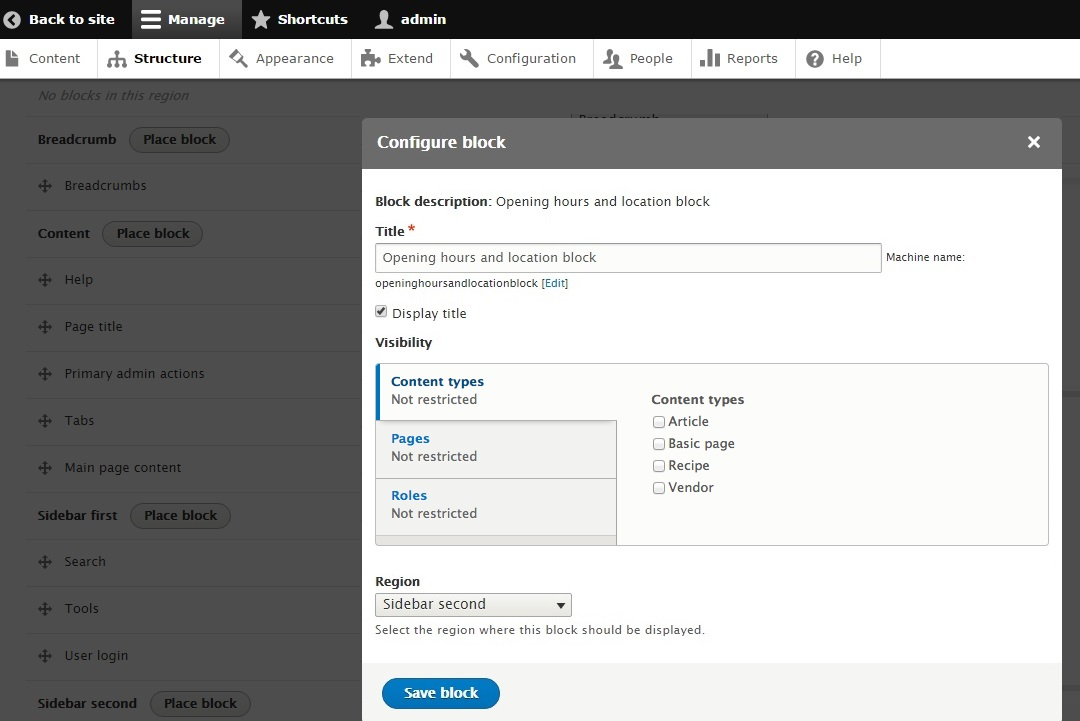
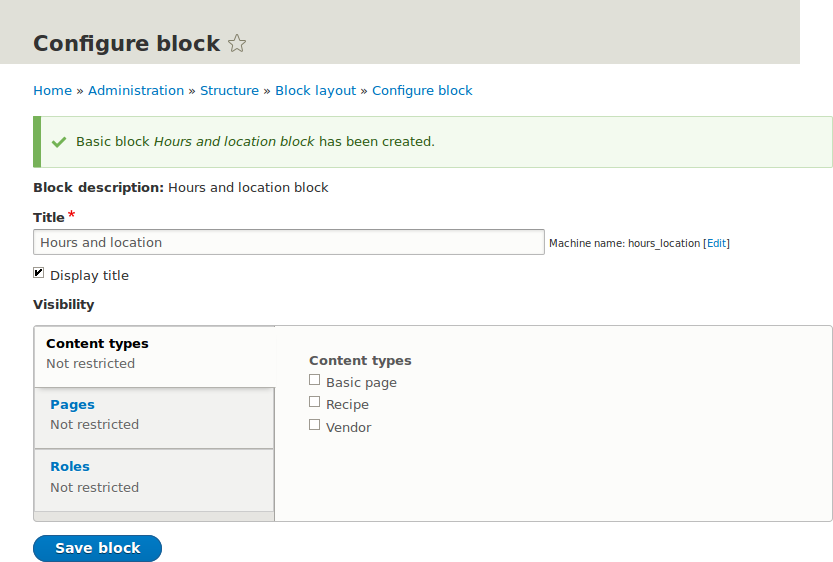
Issue #2539918 by jhodgdon: Automate more screenshots

diff --git a/auto_screenshots/src/Tests/UserGuideDemoTestBase.php b/auto_screenshots/src/Tests/UserGuideDemoTestBase.php
@@ -136,7 +136,8 @@ abstract class UserGuideDemoTestBase extends WebTestBase {
     // Hours and location block.
     'hours_block_description' => 'Hours and location block',
     'hours_block_title' => 'Hours and location',
-    'hours_block_body' => '<p>Open: Sundays, 9 AM to 2 PM, April to September</p>\n<p>Location: Parking lot of Trust Bank, 1st & Union, downtown</p>',
+    'hours_block_title_machine_name' => 'hours_location',
+    'hours_block_body' => "<p>Open: Sundays, 9 AM to 2 PM, April to September</p>\n<p>Location: Parking lot of Trust Bank, 1st & Union, downtown</p>",
 
   ];
 
@@ -167,6 +168,8 @@ abstract class UserGuideDemoTestBase extends WebTestBase {
    * as a "test" to run, in the specific-language classes.
    */
   public function testBuildDemoSite() {
+    global $base_path;
+
     $this->drupalLogin($this->rootUser);
 
     // Add the first language, set the default language to that, and delete
@@ -1014,7 +1017,25 @@ abstract class UserGuideDemoTestBase extends WebTestBase {
         'info[0][value]' => $this->demoInput['hours_block_description'],
         'body[0][value]' => $this->demoInput['hours_block_body'],
       ], $this->callT('Save'));
+    // In the test environment, saving a custom block takes you to the
+    // configure page, which we need to be on for the next topic. Otherwise,
+    // getting to that page involves some kind of obscured URL and is very
+    // difficult to manage.
 
+    // Topic: block-place - Placing a Block in a Region.
+
+    // Configuration page for placing a custom block in the sidebar.
+    $this->setUpScreenShot('block-place-configure-block.png', 'onLoad="jQuery(\'#edit-settings-label\').val(\'' . $this->demoInput['hours_block_title'] . '\'); jQuery(\'.machine-name-value\').html(\'' . $this->demoInput['hours_block_title_machine_name'] . '\');' . $this->hideArea('#toolbar-administration, #edit-block-region-wrapper') . $this->setWidth('.content-header, .layout-container', 800) . $this->removeScrollbars() . '"');
+
+    // Place the block in Bartik, sidebar second.
+    $this->drupalPostForm(NULL, [
+        'settings[label]' => $this->demoInput['hours_block_title'],
+        'id' => $this->demoInput['hours_block_title_machine_name'],
+        'region' => 'sidebar_second',
+      ], $this->callT('Save block'));
+    $this->drupalGet('node/2');
+    // About page with placed sidebar block.
+    $this->setUpScreenShot('block-place-sidebar.png', 'onLoad="' . $this->hideArea('#toolbar-administration, footer') . $this->removeScrollbars() . '"');
 
 
     // @todo Add more topics here.
